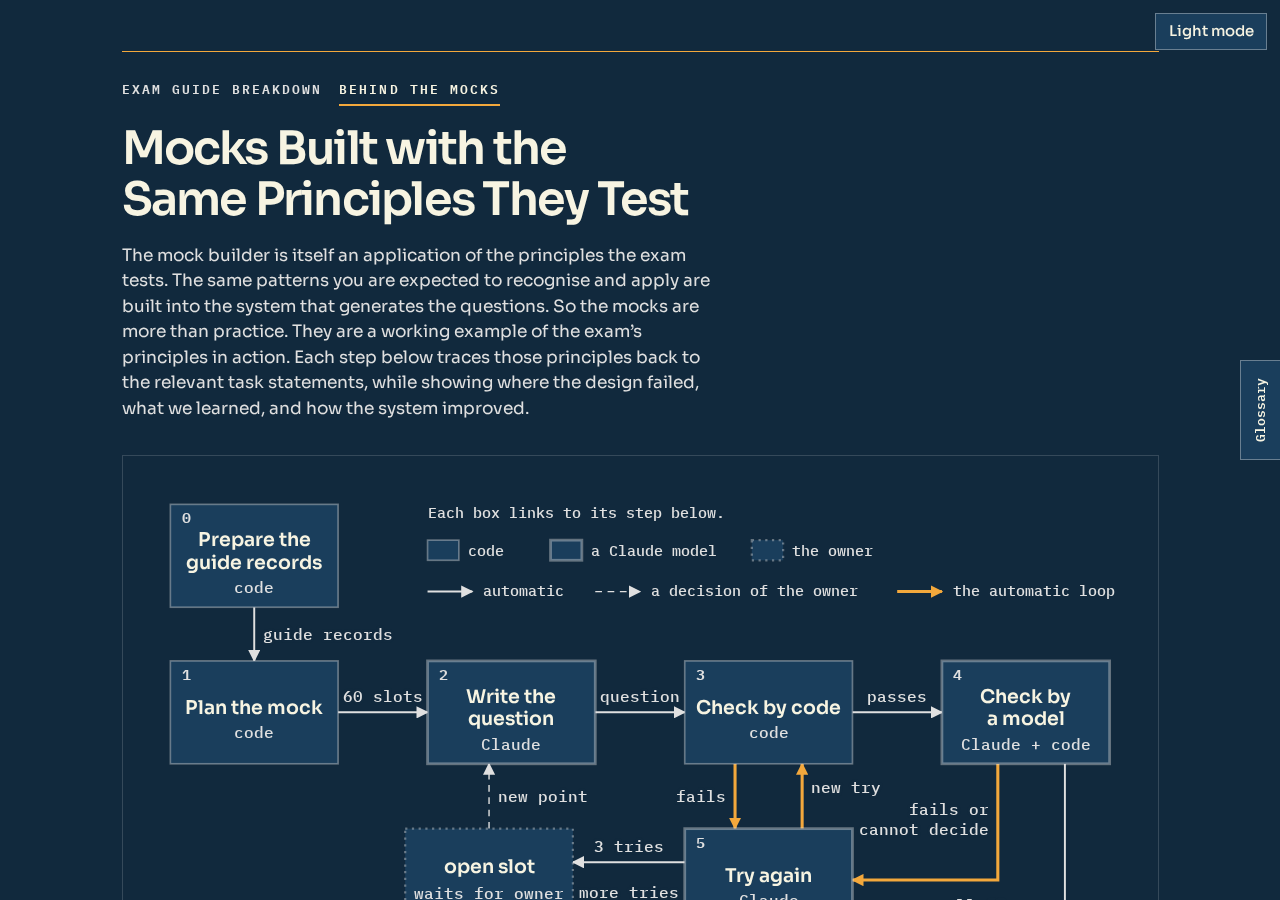
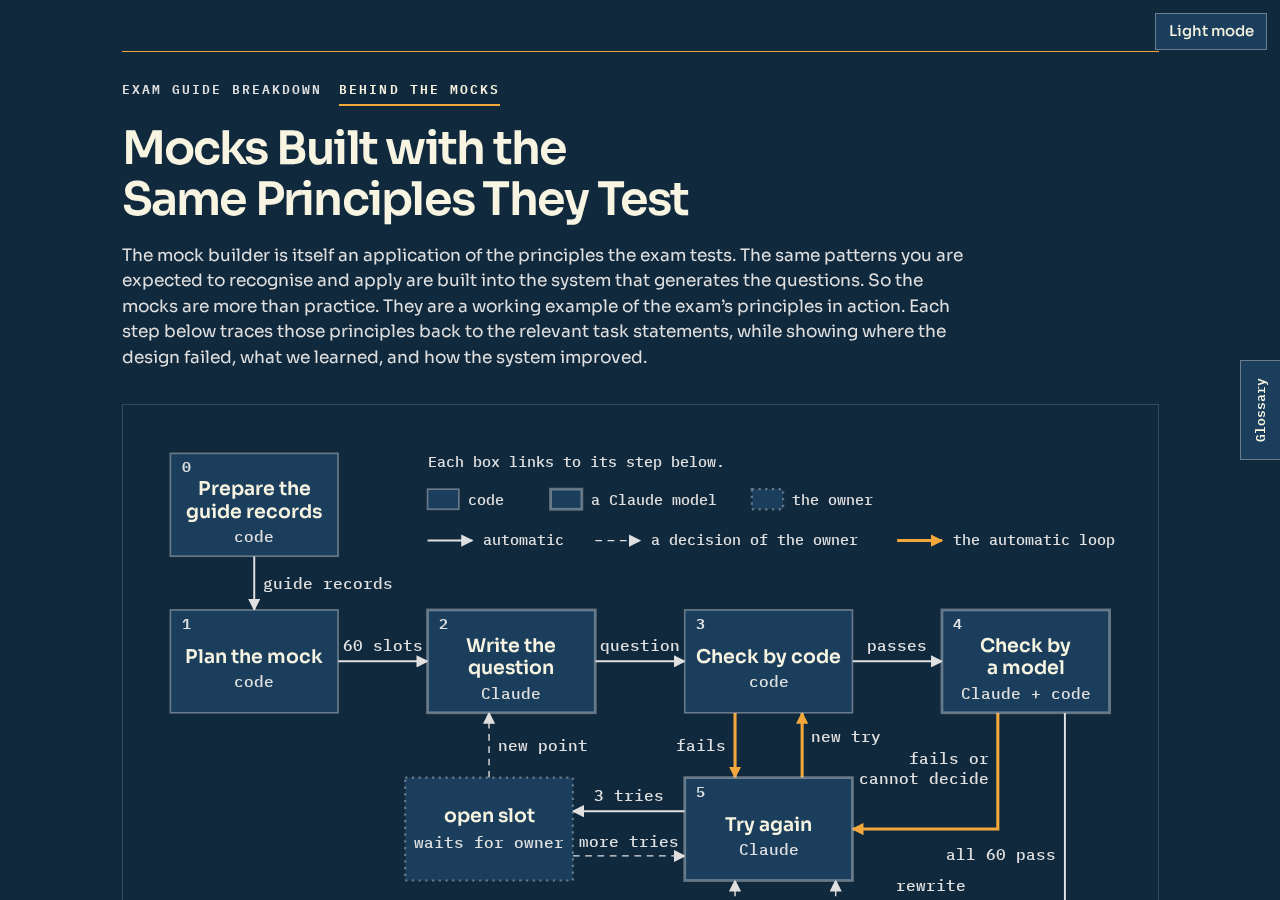
Tab 2: the paragraph of the owner has the width of the other paragraphs, 65 characters (owner, 15 October 2026). check-pages prints All checks passed for tab 2

diff --git a/academy/pages/academy.css b/academy/pages/academy.css
@@ -386,4 +386,4 @@ details.sources > ul { margin-top: var(--s-2); }
 @media (max-width: 34rem) { .glossary-btn { writing-mode: horizontal-tb; transform: none; top: auto; bottom: var(--s-4); right: var(--s-4); border-left: 1px solid var(--border-bright); padding: var(--s-2) var(--s-4); } .glossary-btn[aria-expanded="true"] { box-shadow: inset 0 -3px 0 var(--accent); } }
 @media print { .glossary-btn { display: none; } }
 /* tab 2: the paragraph of the owner in body size (owner, 15 October 2026) */
-.lead.intro { font-size: var(--t-body); }
+.lead.intro { font-size: var(--t-body); max-width: 65ch; }

diff --git a/academy/journal.md b/academy/journal.md
@@ -15,7 +15,7 @@ One entry for each work session. Newest entry first.
   - Batch 6: sentences over 25 words went from 151 to 34. The 34 are false hits of the count script and the paragraph of the owner.
 - Open for the owner: the Overview of 3.2 does not name context: fork (check B3). The paragraphs that read as one long underline (the owner said to take this next).
 - Pushed to GitHub at 29f95da, with the yes of the owner. The owner then asked if the reader checks had found that the text is too dense. They had not: their agents read extracted text, so they never saw the dotted lines. The owner chose, for now, to show the dots only on the fact under the pointer (first on the paragraph, then, at the request of the owner, on the one fact). A touch screen keeps them. The owner agrees that the real cause is text written as a chain of sourced facts, and declined a trial rewrite of part 1.3 for now.
-- Tab 2: the paragraph of the owner below the title has body size (owner, 15 October 2026). The owner tried a centered title and paragraph, and took them back: they looked worse.
+- Tab 2: the paragraph of the owner below the title has body size and the width of the other paragraphs, 65 characters (owner, 15 October 2026). The owner tried a centered title and paragraph, and took them back: they looked worse.
 - The figure number (for example "Fig. A") now stands on its own line above the caption, on all figures (owner, 15 October 2026). The owner kept the caption of Fig. A as it is.
 - Decision 0044: the glossary of each tab is a panel at the right side, opened by a fixed button "Glossary". Each list of sources is a closed section with its count. "Sources of the top" is now "Sources of the introduction". check-pages prints "All checks passed." for both tabs.
 
